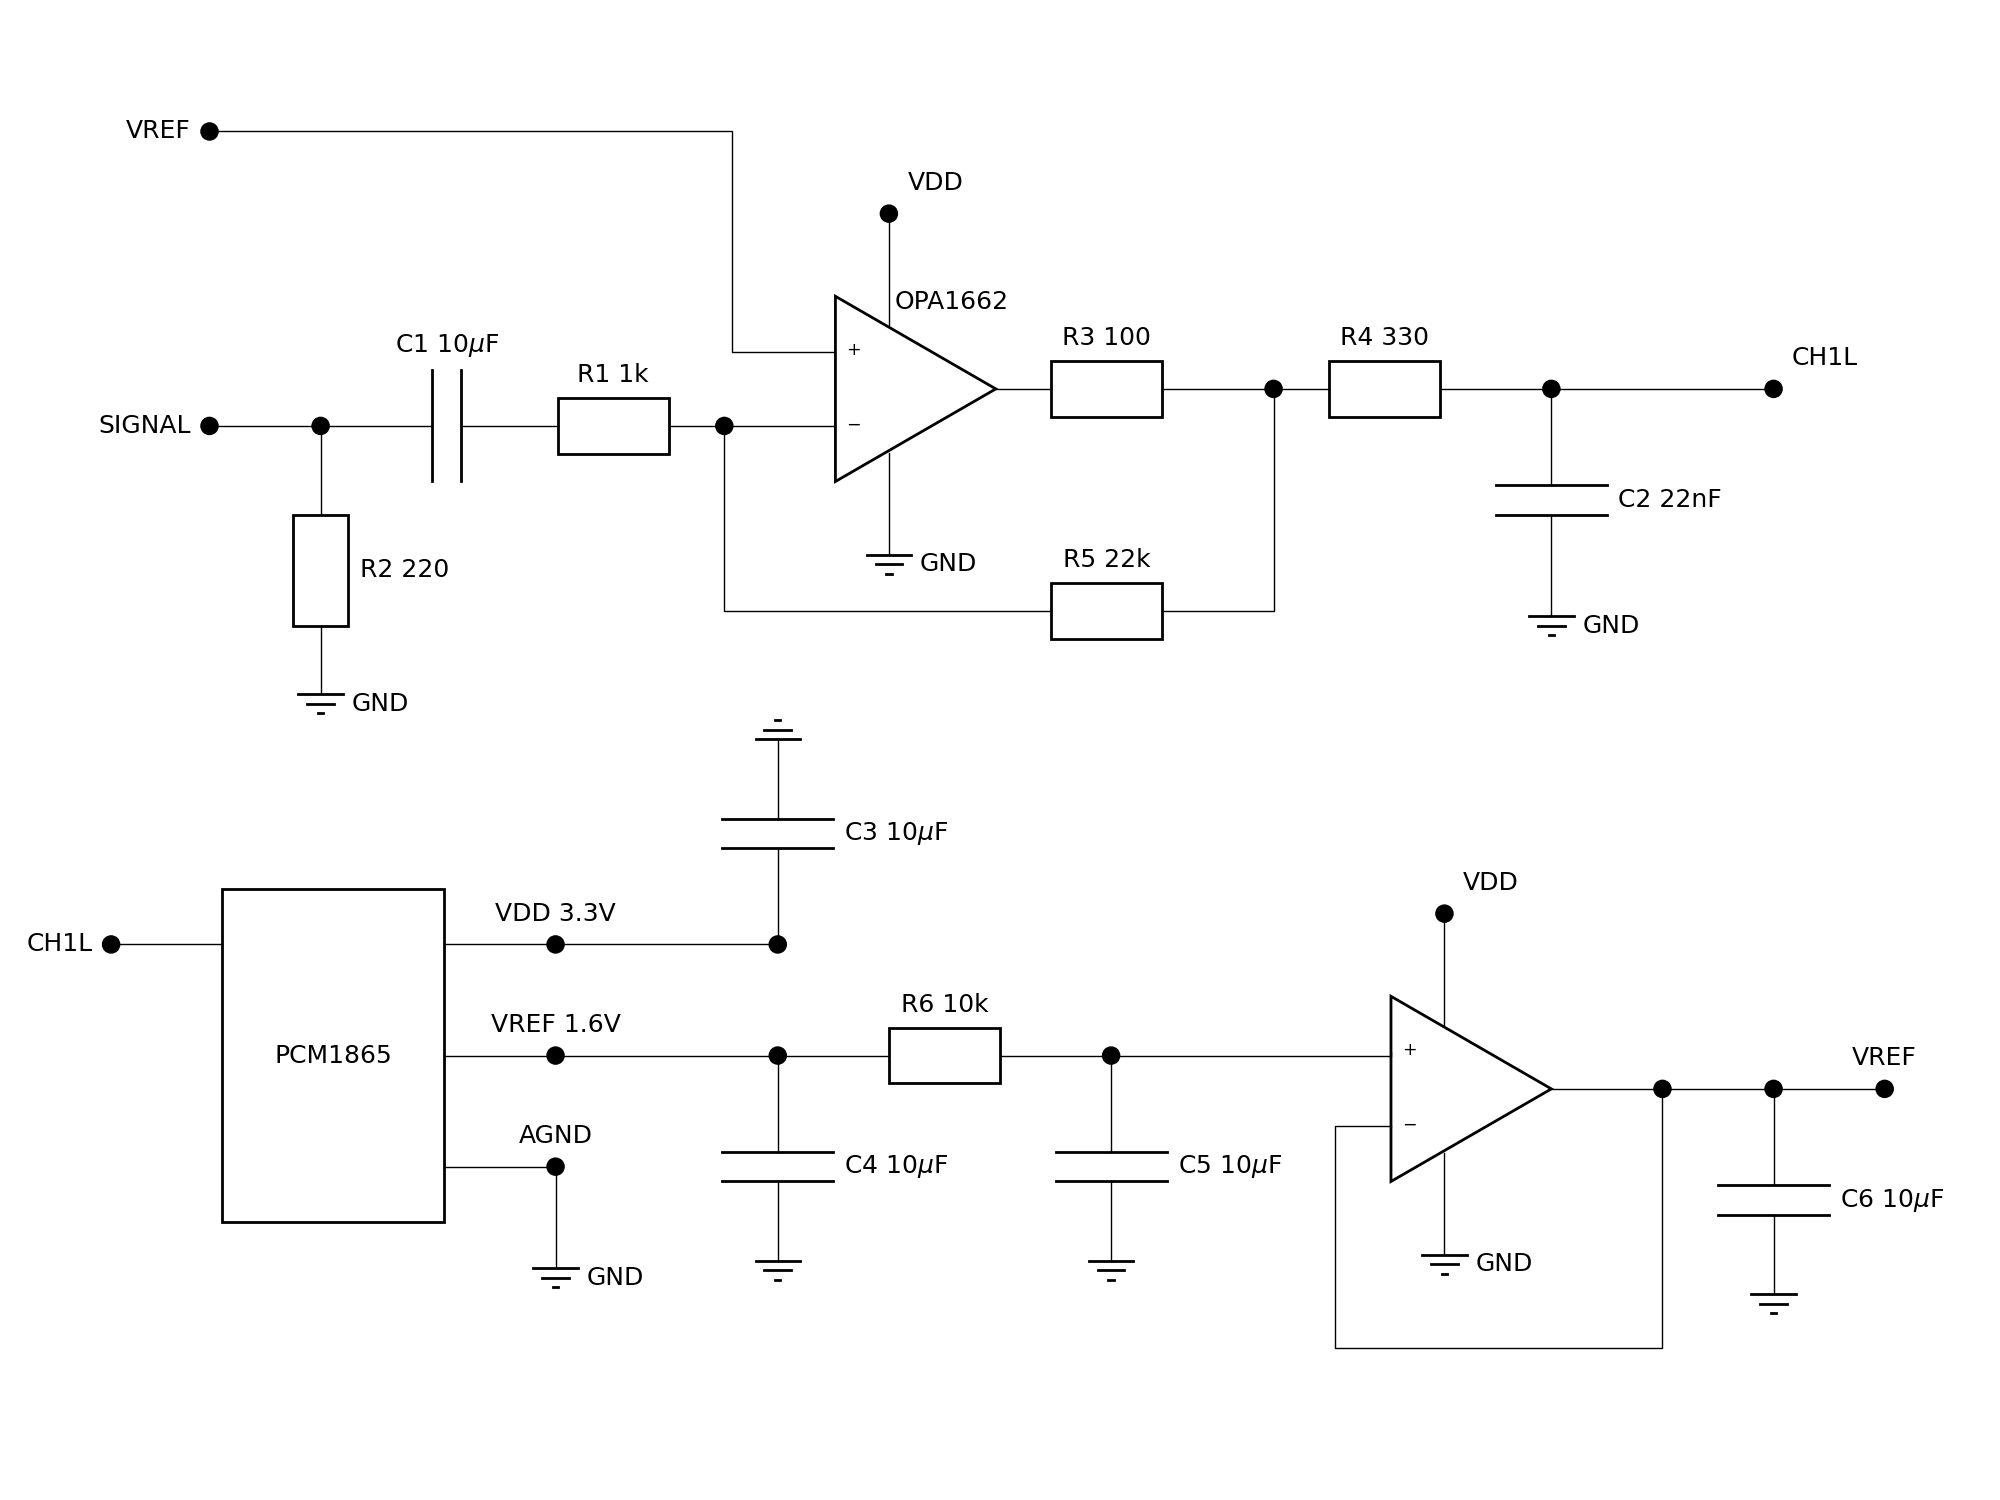
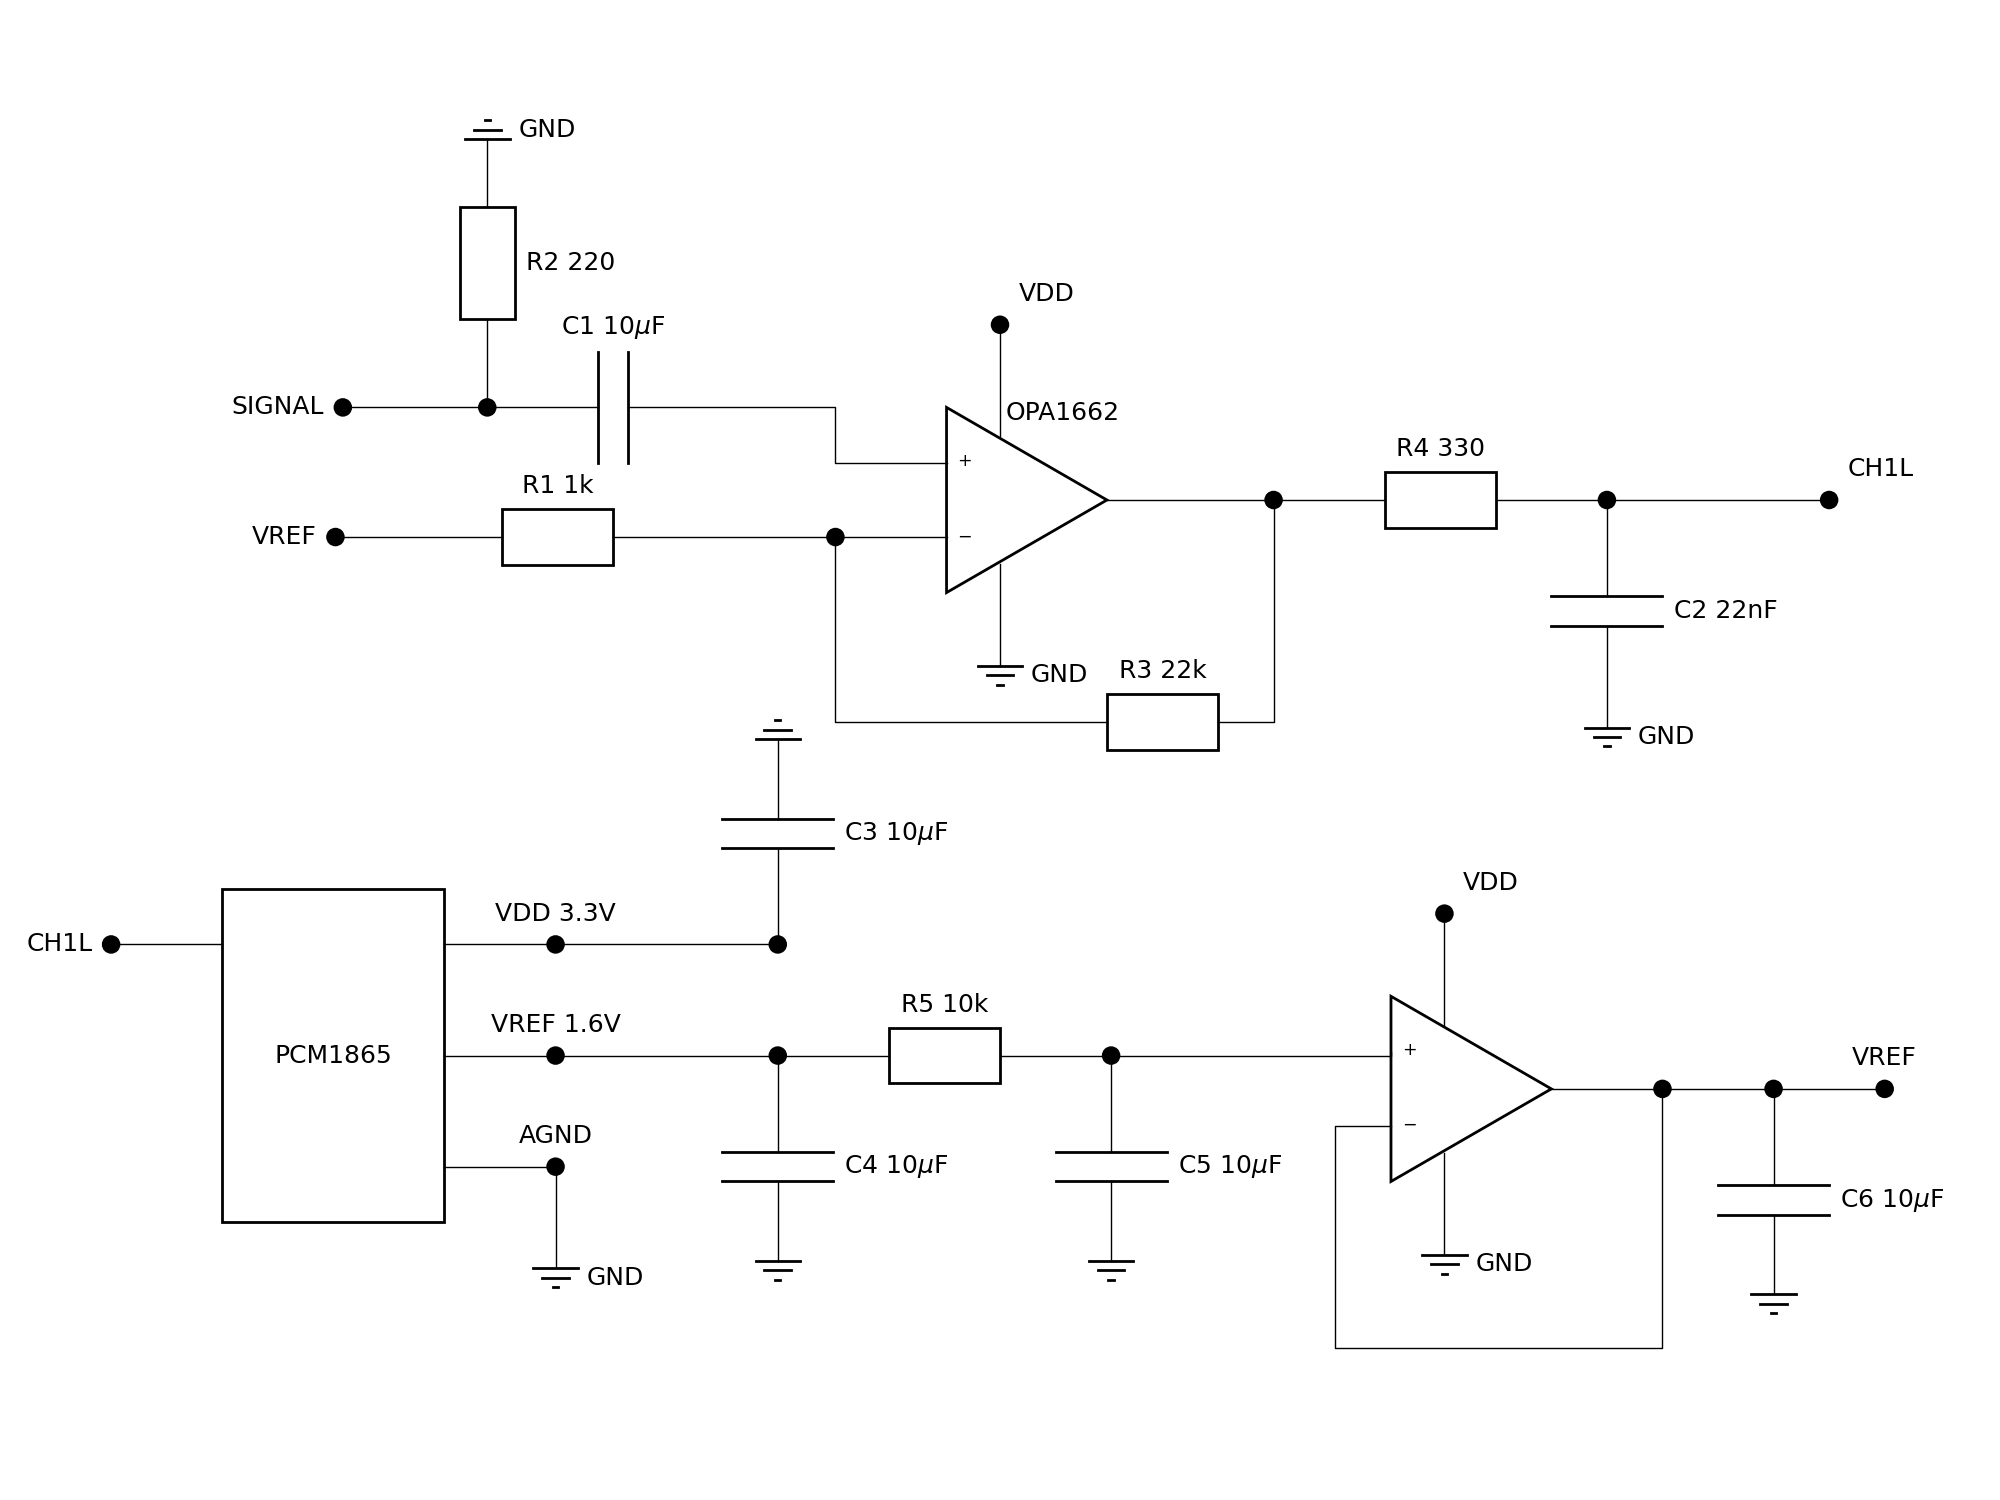
preamp and preampinv

diff --git a/R4.0/preampinv.py b/R4.0/preampinv.py
@@ -8,25 +8,25 @@ fig, ax = plt.subplots()
 fig.subplots_adjust(nomargins=True)
 ax.show_spines('')
 
-pn, pp, po, pg, pw = ax.opamp_l((9, 4), 'OPA1662')
+pn, pp, po, pg, pw = ax.opamp_l((8, 5), 'OPA1662')
 gnd1 = ax.ground(pg.down(1), 'GND')
 ax.connect((pg, gnd1))
 npwr = ax.node(pw.up(1), 'VDD')
 ax.connect((pw, npwr))
 
-c1l, c1r = ax.capacitance_h(pp.left(3).up(0.5), 'C1 10$\mu$F')
-n1 = ax.node(c1l.left(1))
-nn = ax.node(n1.left(1.3), 'SIGNAL', align='left')
-ax.connect((nn, n1, c1l, None, c1r, pp.left(1).up(0.5), pp))
-
-r2b, r2t = ax.resistance_v(n1.up(1.3), 'R2 220')
-gnd2 = ax.ground_u(r2t.up(0.7), 'GND')
-ax.connect((n1, r2b, None, r2t, gnd2))
-
 ng1 = ax.node(pn.left(1))
-r1l, r1r = ax.resistance_h(ng1.left(2.5), 'R1 1k')
-np = ax.node(r1l.left(1.5), 'VREF', align='left')
-ax.connect((np, r1l, None, r1r, pn))
+r1l, r1r = ax.resistance_h(ng1.left(1), 'R1 1k')
+c1l, c1r = ax.capacitance_h(r1l.left(1), 'C1 10$\mu$F')
+n1 = ax.node(c1l.left(1))
+nn = ax.node(n1.left(1), 'SIGNAL', align='left')
+ax.connect((nn, n1, c1l, None, c1r, r1l, None, r1r, ng1, pn))
+
+np = ax.node(nn.up(2.65), 'VREF', align='left')
+ax.connect((np, np.right(4.7),  pp))
+
+r2b, r2t = ax.resistance_v(n1.down(1.3), 'R2 220')
+gnd2 = ax.ground(r2b.down(0.7), 'GND')
+ax.connect((n1, r2t, None, r2b, gnd2))
 
 ng2 = ax.node(po.right(1.5))
 r4l, r4r = ax.resistance_h(ng2.right(1.5), 'R4 330')
@@ -44,7 +44,7 @@ ax.connect((nlp, c2t, None, c2b, gnd2))
 
 w = 2*plt.rcParams['circuits.scale']
 h = 1.5*w
-x, y = 3, -1
+x, y = 5, -2
 ax.add_patch(Rectangle((x - 0.5*w, y - 0.5*h), w, h,
                        edgecolor='none', facecolor='w'))
 ax.add_patch(Rectangle((x - 0.5*w, y - 0.5*h), w, h,
@@ -67,23 +67,13 @@ nvref = ax.node(vref.right(1), 'VREF 1.6V', 'above')
 nrc1 = ax.node(nvref.right(2))
 r6l, r6r = ax.resistance_h(nrc1.right(1.5), 'R5 10k')
 nrc2 = ax.node(r6r.right(1))
-pn, pp, po, pg, pw = ax.opamp_l(nrc2.right(3).down(0.3), '')
-nb = ax.node(po.right(1))
-nbc = ax.node(nb.right(1))
-nbo = ax.node(nbc.right(1), 'VREF', 'above')
-ax.connect((vref, nvref, nrc1, r6l, None, r6r, nrc2, pp, None, po, nb, nbc, nbo))
+nbo = ax.node(nrc2.right(2), 'VREF', 'above')
+ax.connect((vref, nvref, nrc1, r6l, None, r6r, nrc2, nbo))
 
 gnd1 = ax.ground(pg.down(1), 'GND')
 ax.connect((pg, gnd1))
 npwr = ax.node(pw.up(1), 'VDD')
 ax.connect((pw, npwr))
-
-ax.connect((pn, pn.left(0.5), pn.left(0.5).down(2), nb))
-
-c6b, c6t = ax.capacitance_v(nbc.down(1), 'C6 10$\mu$F')
-gnd6 = ax.ground(c6b.down(0.8))
-ax.connect((gnd6, c6b, None, c6t, nbc))
-
 
 c4b, c4t = ax.capacitance_v(nrc1.down(1), 'C4 10$\mu$F')
 gnd4 = ax.ground(c4b.down(0.8))

diff --git a/R4.0/README.md b/R4.0/README.md
@@ -154,12 +154,12 @@ VINL4, VINR4, VINL3, VINR3 are connected to a preamp, see:
 
 ### Pre-amplifier
 
-![preamp](preamp.png)
+![preampinv](preampinv.png)
 
-- No cross talk:
+- No cross talk?
   ![crosstalk](images/RECORD-VREFBUFFER-3x10uF-CROSSTALK-spectra.png)
 
-- Buffer with 10uF capacitors cleans up VREF:
+- Buffer with 10uF capacitors not needed to clean up VREF:
   ![vrefbuffer](images/RECORD-VREFBUFFER-3x10uF-spectra.png)
   (see Fig 6 in [Tips and Tricks for Designing with Voltage References](https://www.ti.com/lit/eb/slyc147a/slyc147a.pdf?ts=1688404208484&ref_url=https%253A%252F%252Fwww.google.com%252F))
 
